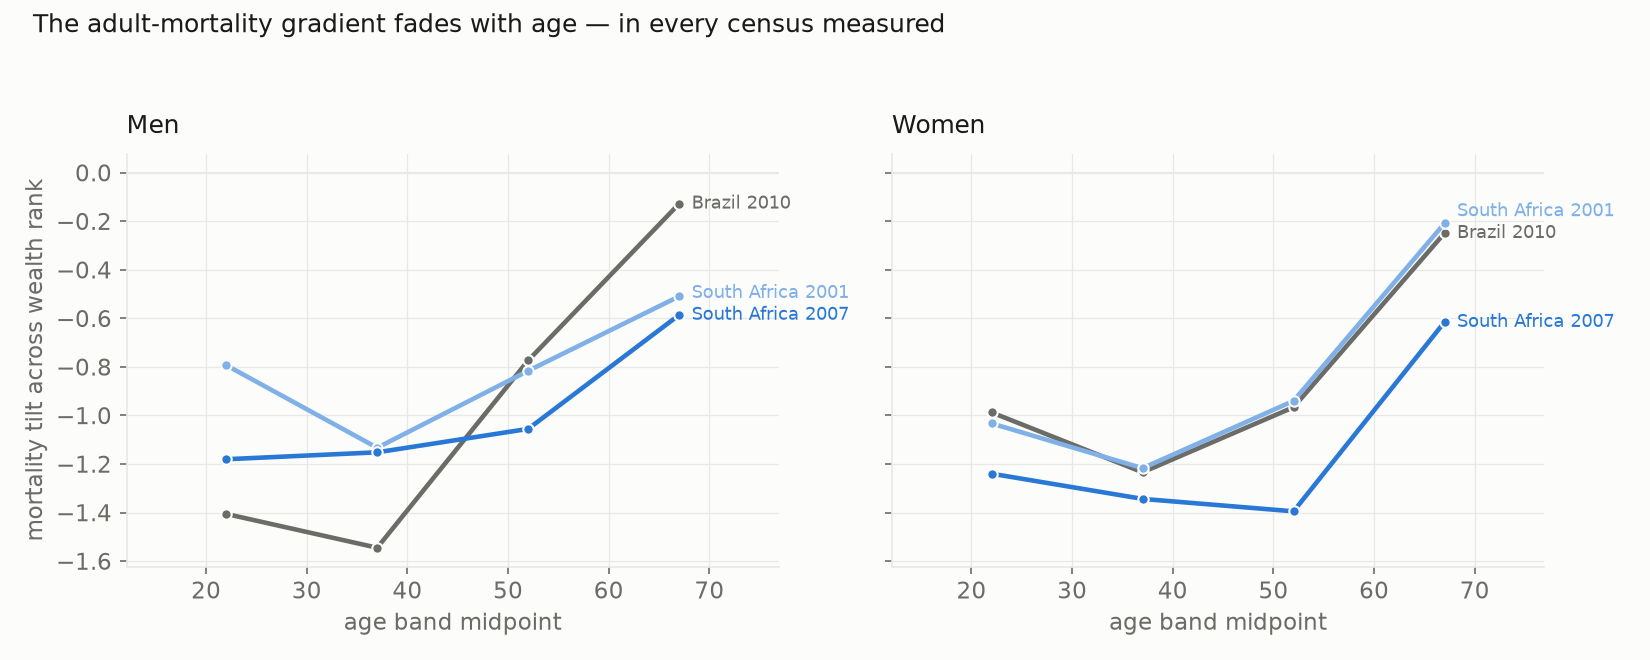
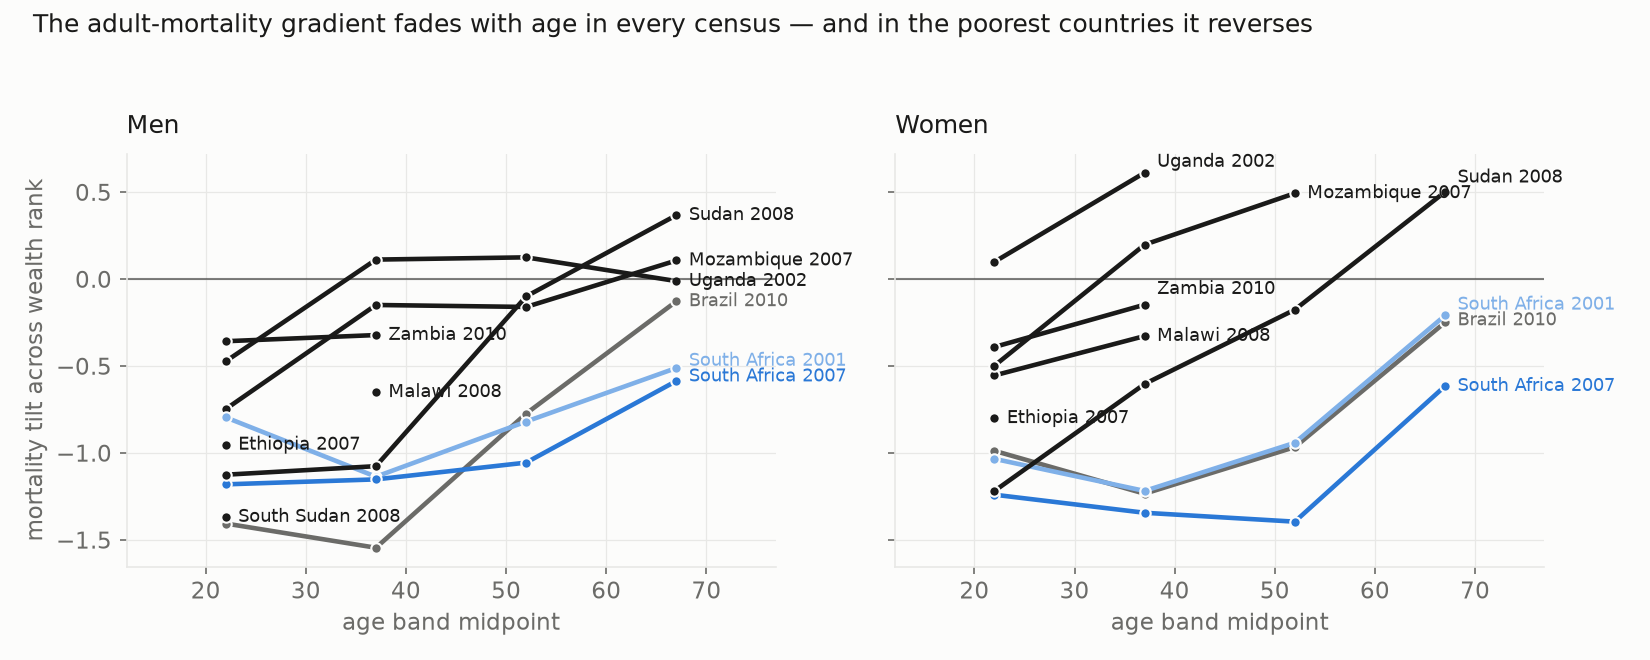
Add adult mortality for Ethiopia and eleven comparator countries
The library now covers sixteen censuses in fourteen countries, up from four
in two: Ethiopia 2007 joins the OG-family set, and Zambia, Malawi,
Mozambique, Uganda, Rwanda, Senegal, Sierra Leone, Lesotho, Benin, Sudan and
South Sudan give country models something to borrow from. Cambodia 2008 was
prepared and checked too but publishes nothing: its death records are mostly
children, leaving every adult age band short of the minimum this library
requires. That leaves no Asian country in the set, which matters for
borrowing and is worth returning to.

Every published sample reproduces its census population, links its death
records to households, and passes the completeness check. Brazil's rows still
come from IBGE's own microdata, because the IPUMS file for the same census
holds only half the deaths the census reports and loses them mainly in
wealthy households.

Two findings are written into the analysis. First, how steep the gradient is
depends on how rich the country is, closely enough to predict: doubling
income per head steepens it by about a sixth of a point. Borrowing should
follow income level rather than region, and a model running decades ahead
should let the gradient steepen as the country grows richer. Second, in the
poorest countries the gradient flattens and then turns over at older ages -
measured mortality is higher in better-off households past 45. That may be
real, since where nearly everyone is poor the top group is barely better
[…]

diff --git a/scripts/build_analysis.py b/scripts/build_analysis.py
@@ -180,22 +180,63 @@ a decaying quantity. South Africa's own fertility gradient flattened between its
     amr_path = DATA / "adult_mortality_gradients.csv"
     if amr_path.exists():
         amr = pd.read_csv(amr_path)
-        doc += """
+        n_cens = amr.groupby(["country", "year"]).ngroups
+        doc += f"""
 ## Adult mortality gradients (census household-deaths modules)
 
 Adult mortality by wealth comes from census microdata, not DHS surveys (see the
 README for why). Households are ranked by an asset index; tilts are on the same
-log-rate-per-unit-rank scale as the tables above. The age pattern — steep at
+log-rate-per-unit-rank scale as the tables above. The age pattern — steepest at
 prime working ages, fading in old age — is the by-age shape ogcore's
-`mort_gradient` accepts directly, and it replicates across every census
-measured:
+`mort_gradient` accepts directly, and it holds in every one of the
+{n_cens} censuses measured:
 
 ![Adult-mortality tilt by age band and country](figures/fig5_amr_age_profile.png)
 
-`linked` is the share of the census's death records that carry a linkable
-household ID; where it is well below 1 (South Africa 2011), rate *levels* are
-meaningless but the tilt is unbiased — the linked deaths' composition matches
-the unlinked on province, urban/rural, sex, and age (checked per sample).
+### Read the level off national income, not the region
+
+The *steepness* of the gradient tracks how rich the country is. Across these
+censuses the headline tilt fits
+
+    tilt ≈ 1.25 − 0.24 × ln(GNI per capita)      (r = −0.85)
+
+so doubling income steepens the gradient by about −0.17. In the poorest
+countries the gradient is flat, and at older ages it turns positive: measured
+mortality is *higher* in wealthier households in Ethiopia 2007, Uganda 2002,
+South Sudan 2008 and Mozambique 2007. Two things plausibly drive that, and this
+data cannot separate them. Where almost everyone is poor, the top asset group
+is barely better protected and deaths are infectious and maternal rather than
+the socially graded chronic diseases of middle income. Against that, a frail
+elderly relative often moves into a better-off household before dying, which
+records the death against that household's wealth — a bias no within-census
+check can detect.
+
+HIV does not explain the pattern: excluding South Africa, the correlation
+between the tilt and HIV prevalence is +0.00, Lesotho has the set's highest
+prevalence with a solidly negative tilt, and the reversal is strongest at
+60–74, where HIV mortality is rare.
+
+**For calibration:** borrow by income level rather than by region, and do not
+hold a low-income country's flat tilt fixed across a long transition — as
+income rises the gradient should be expected to steepen toward the middle- and
+high-income values in this table.
+
+### What the columns mean, and what was left out
+
+`linked` is the share of the census's death records that reached estimation.
+Where it is well below 1 (South Africa 2011), rate *levels* are meaningless but
+the tilt is unbiased — the linked deaths' composition matches the unlinked on
+province, urban/rural, sex, and age.
+
+Every sample here passed a completeness check: the supplementary per-death file
+is compared, *within each wealth group*, against the same households' own
+reported death counts (`MORTNUM`). Even record loss cancels out of a tilt;
+wealth-skewed loss does not. Three samples failed and are deliberately absent —
+the IPUMS mortality supplement for Brazil 2010 (holds 48% of the deaths the
+census itself reports, with the loss concentrated in wealthy households; the
+Brazil rows below come from IBGE's own microdata instead), Nepal 2001, and El
+Salvador 2007. Their evidence is recorded in
+`scripts/build_adult_mortality.py`.
 
 | Country | Year | Sex | Ages | Measure | Tilt | Poorest/richest | Death records | Linked |
 |---|---|---|---|---|---|---|---|---|

diff --git a/scripts/make_figures.py b/scripts/make_figures.py
@@ -200,13 +200,15 @@ def amr_age_profile(fname):
         for series, c, x, y in ends:
             ax.annotate(series, (x, y), xytext=(6, 0), textcoords="offset points",
                         color=c, fontsize=8.5, va="center")
-        ax.axhline(0, color=GRID, lw=1)
         ax.grid(True, color=GRID, linewidth=0.6)
+        # zero is the substantive line: above it the gradient has reversed
+        ax.axhline(0, color="#1a1a19", lw=1, alpha=0.55)
         ax.set_xlabel("age band midpoint")
         ax.set_title(ttl, fontsize=12, loc="left", pad=10)
         ax.margins(x=0.22)
     axes[0].set_ylabel("mortality tilt across wealth rank")
-    fig.suptitle("The adult-mortality gradient fades with age — in every census measured",
+    fig.suptitle("The adult-mortality gradient fades with age in every census — "
+                 "and in the poorest countries it reverses",
                  fontsize=12, x=0.02, ha="left")
     fig.tight_layout(rect=(0, 0, 1, 0.94))
     fig.savefig(ROOT / "figures" / fname)

diff --git a/ANALYSIS.md b/ANALYSIS.md
@@ -79,17 +79,57 @@ a decaying quantity. South Africa's own fertility gradient flattened between its
 
 Adult mortality by wealth comes from census microdata, not DHS surveys (see the
 README for why). Households are ranked by an asset index; tilts are on the same
-log-rate-per-unit-rank scale as the tables above. The age pattern — steep at
+log-rate-per-unit-rank scale as the tables above. The age pattern — steepest at
 prime working ages, fading in old age — is the by-age shape ogcore's
-`mort_gradient` accepts directly, and it replicates across every census
-measured:
+`mort_gradient` accepts directly, and it holds in every one of the
+16 censuses measured:
 
 ![Adult-mortality tilt by age band and country](figures/fig5_amr_age_profile.png)
 
-`linked` is the share of the census's death records that carry a linkable
-household ID; where it is well below 1 (South Africa 2011), rate *levels* are
-meaningless but the tilt is unbiased — the linked deaths' composition matches
-the unlinked on province, urban/rural, sex, and age (checked per sample).
+### Read the level off national income, not the region
+
+The *steepness* of the gradient tracks how rich the country is. Across these
+censuses the headline tilt fits
+
+    tilt ≈ 1.25 − 0.24 × ln(GNI per capita)      (r = −0.85)
+
+so doubling income steepens the gradient by about −0.17. In the poorest
+countries the gradient is flat, and at older ages it turns positive: measured
+mortality is *higher* in wealthier households in Ethiopia 2007, Uganda 2002,
+South Sudan 2008 and Mozambique 2007. Two things plausibly drive that, and this
+data cannot separate them. Where almost everyone is poor, the top asset group
+is barely better protected and deaths are infectious and maternal rather than
+the socially graded chronic diseases of middle income. Against that, a frail
+elderly relative often moves into a better-off household before dying, which
+records the death against that household's wealth — a bias no within-census
+check can detect.
+
+HIV does not explain the pattern: excluding South Africa, the correlation
+between the tilt and HIV prevalence is +0.00, Lesotho has the set's highest
+prevalence with a solidly negative tilt, and the reversal is strongest at
+60–74, where HIV mortality is rare.
+
+**For calibration:** borrow by income level rather than by region, and do not
+hold a low-income country's flat tilt fixed across a long transition — as
+income rises the gradient should be expected to steepen toward the middle- and
+high-income values in this table.
+
+### What the columns mean, and what was left out
+
+`linked` is the share of the census's death records that reached estimation.
+Where it is well below 1 (South Africa 2011), rate *levels* are meaningless but
+the tilt is unbiased — the linked deaths' composition matches the unlinked on
+province, urban/rural, sex, and age.
+
+Every sample here passed a completeness check: the supplementary per-death file
+is compared, *within each wealth group*, against the same households' own
+reported death counts (`MORTNUM`). Even record loss cancels out of a tilt;
+wealth-skewed loss does not. Three samples failed and are deliberately absent —
+the IPUMS mortality supplement for Brazil 2010 (holds 48% of the deaths the
+census itself reports, with the loss concentrated in wealthy households; the
+Brazil rows below come from IBGE's own microdata instead), Nepal 2001, and El
+Salvador 2007. Their evidence is recorded in
+`scripts/build_adult_mortality.py`.
 
 | Country | Year | Sex | Ages | Measure | Tilt | Poorest/richest | Death records | Linked |
 |---|---|---|---|---|---|---|---|---|
@@ -103,21 +143,21 @@ the unlinked on province, urban/rural, sex, and age (checked per sample).
 | Brazil | 2010 | female | 45–59 | mx | −0.97 | 2.26 | 6,896 | 100% |
 | Brazil | 2010 | female | 60–74 | mx | −0.25 | 1.23 | 12,161 | 100% |
 | Brazil | 2010 | female | 15–59 | 45q15 | −0.98 | 2.28 | 12,089 | 100% |
-| South Africa | 2001 | all | 15–29 | mx | −0.91 | 1.97 | 5,939 | 100% |
+| South Africa | 2001 | all | 15–29 | mx | −0.92 | 1.98 | 5,939 | 100% |
 | South Africa | 2001 | all | 30–44 | mx | −1.17 | 2.55 | 8,504 | 100% |
 | South Africa | 2001 | all | 45–59 | mx | −0.86 | 1.95 | 5,750 | 100% |
 | South Africa | 2001 | all | 60–74 | mx | −0.32 | 1.28 | 5,489 | 100% |
-| South Africa | 2001 | all | 15–59 | 45q15 | −0.79 | 1.85 | 20,193 | 100% |
-| South Africa | 2001 | male | 15–29 | mx | −0.79 | 1.84 | 2,835 | 100% |
-| South Africa | 2001 | male | 30–44 | mx | −1.13 | 2.56 | 4,564 | 100% |
-| South Africa | 2001 | male | 45–59 | mx | −0.82 | 1.94 | 3,558 | 100% |
-| South Africa | 2001 | male | 60–74 | mx | −0.51 | 1.47 | 2,983 | 100% |
-| South Africa | 2001 | male | 15–59 | 45q15 | −0.70 | 1.77 | 10,957 | 100% |
+| South Africa | 2001 | all | 15–59 | 45q15 | −0.79 | 1.86 | 20,193 | 100% |
+| South Africa | 2001 | male | 15–29 | mx | −0.80 | 1.84 | 2,835 | 100% |
+| South Africa | 2001 | male | 30–44 | mx | −1.14 | 2.57 | 4,564 | 100% |
+| South Africa | 2001 | male | 45–59 | mx | −0.82 | 1.95 | 3,558 | 100% |
+| South Africa | 2001 | male | 60–74 | mx | −0.51 | 1.48 | 2,983 | 100% |
+| South Africa | 2001 | male | 15–59 | 45q15 | −0.70 | 1.78 | 10,957 | 100% |
 | South Africa | 2001 | female | 15–29 | mx | −1.03 | 2.12 | 3,104 | 100% |
 | South Africa | 2001 | female | 30–44 | mx | −1.22 | 2.57 | 3,940 | 100% |
 | South Africa | 2001 | female | 45–59 | mx | −0.94 | 2.02 | 2,192 | 100% |
 | South Africa | 2001 | female | 60–74 | mx | −0.21 | 1.19 | 2,506 | 100% |
-| South Africa | 2001 | female | 15–59 | 45q15 | −0.89 | 1.97 | 9,236 | 100% |
+| South Africa | 2001 | female | 15–59 | 45q15 | −0.89 | 1.98 | 9,236 | 100% |
 | South Africa | 2007 | all | 15–29 | mx | −1.21 | 2.35 | 2,421 | 100% |
 | South Africa | 2007 | all | 30–44 | mx | −1.25 | 2.41 | 4,353 | 100% |
 | South Africa | 2007 | all | 45–59 | mx | −1.21 | 2.25 | 2,693 | 100% |
@@ -133,9 +173,107 @@ the unlinked on province, urban/rural, sex, and age (checked per sample).
 | South Africa | 2007 | female | 45–59 | mx | −1.40 | 2.51 | 1,090 | 100% |
 | South Africa | 2007 | female | 60–74 | mx | −0.62 | 1.41 | 902 | 100% |
 | South Africa | 2007 | female | 15–59 | 45q15 | −0.92 | 1.87 | 4,586 | 100% |
-| South Africa | 2011 | all | 30–44 | mx | −1.45 | 3.47 | 988 | 10% |
-| South Africa | 2011 | all | 15–59 | 45q15 | −1.14 | 2.63 | 2,245 | 10% |
-| South Africa | 2011 | male | 15–59 | 45q15 | −0.99 | 2.38 | 1,193 | 10% |
-| South Africa | 2011 | female | 15–59 | 45q15 | −1.30 | 2.93 | 1,048 | 10% |
+| South Africa | 2011 | all | 30–44 | mx | −0.99 | 1.98 | 905 | 9% |
+| South Africa | 2011 | all | 15–59 | 45q15 | −0.80 | 1.75 | 2,098 | 9% |
+| South Africa | 2011 | male | 15–59 | 45q15 | −0.74 | 1.74 | 1,123 | 9% |
+| South Africa | 2011 | female | 15–59 | 45q15 | −0.87 | 1.76 | 972 | 9% |
+| Ethiopia | 2007 | all | 15–29 | mx | −0.87 | 1.79 | 1,957 | 100% |
+| Ethiopia | 2007 | all | 30–44 | mx | 0.08 | 0.93 | 1,472 | 100% |
+| Ethiopia | 2007 | all | 45–59 | mx | 0.58 | 0.66 | 900 | 100% |
+| Ethiopia | 2007 | all | 60–74 | mx | 0.44 | 0.75 | 957 | 100% |
+| Ethiopia | 2007 | all | 15–59 | 45q15 | 0.09 | 0.93 | 4,329 | 100% |
+| Ethiopia | 2007 | male | 15–29 | mx | −0.95 | 1.89 | 974 | 100% |
+| Ethiopia | 2007 | male | 15–59 | 45q15 | −0.13 | 1.07 | 2,247 | 100% |
+| Ethiopia | 2007 | female | 15–29 | mx | −0.80 | 1.70 | 983 | 100% |
+| Ethiopia | 2007 | female | 15–59 | 45q15 | 0.34 | 0.79 | 2,082 | 100% |
+| Zambia | 2010 | all | 15–29 | mx | −0.37 | 1.32 | 2,354 | 100% |
+| Zambia | 2010 | all | 30–44 | mx | −0.24 | 1.15 | 2,899 | 100% |
+| Zambia | 2010 | all | 45–59 | mx | −0.22 | 1.10 | 1,433 | 100% |
+| Zambia | 2010 | all | 60–74 | mx | 0.48 | 0.69 | 1,147 | 100% |
+| Zambia | 2010 | all | 15–59 | 45q15 | −0.18 | 1.11 | 6,686 | 100% |
+| Zambia | 2010 | male | 15–29 | mx | −0.36 | 1.30 | 1,147 | 100% |
+| Zambia | 2010 | male | 30–44 | mx | −0.32 | 1.19 | 1,652 | 100% |
+| Zambia | 2010 | male | 15–59 | 45q15 | −0.31 | 1.18 | 3,630 | 100% |
+| Zambia | 2010 | female | 15–29 | mx | −0.39 | 1.33 | 1,207 | 100% |
+| Zambia | 2010 | female | 30–44 | mx | −0.15 | 1.10 | 1,247 | 100% |
+| Zambia | 2010 | female | 15–59 | 45q15 | −0.06 | 1.05 | 3,056 | 100% |
+| Malawi | 2008 | all | 15–29 | mx | −0.71 | 1.65 | 1,941 | 99% |
+| Malawi | 2008 | all | 30–44 | mx | −0.50 | 1.30 | 2,243 | 99% |
+| Malawi | 2008 | all | 45–59 | mx | −0.10 | 0.95 | 1,059 | 99% |
+| Malawi | 2008 | all | 15–59 | 45q15 | −0.28 | 1.13 | 5,243 | 99% |
+| Malawi | 2008 | male | 30–44 | mx | −0.65 | 1.36 | 1,198 | 99% |
+| Malawi | 2008 | male | 15–59 | 45q15 | −0.45 | 1.25 | 2,724 | 99% |
+| Malawi | 2008 | female | 15–29 | mx | −0.55 | 1.46 | 1,054 | 99% |
+| Malawi | 2008 | female | 30–44 | mx | −0.33 | 1.23 | 1,045 | 99% |
+| Malawi | 2008 | female | 15–59 | 45q15 | −0.11 | 1.04 | 2,519 | 99% |
+| Mozambique | 2007 | all | 15–29 | mx | −0.62 | 1.66 | 4,110 | 100% |
+| Mozambique | 2007 | all | 30–44 | mx | 0.03 | 0.97 | 4,637 | 100% |
+| Mozambique | 2007 | all | 45–59 | mx | 0.19 | 0.84 | 2,863 | 100% |
+| Mozambique | 2007 | all | 60–74 | mx | 0.66 | 0.60 | 2,176 | 100% |
+| Mozambique | 2007 | all | 15–59 | 45q15 | −0.01 | 1.00 | 11,610 | 100% |
+| Mozambique | 2007 | male | 15–29 | mx | −0.75 | 1.84 | 1,794 | 100% |
+| Mozambique | 2007 | male | 30–44 | mx | −0.15 | 1.14 | 2,458 | 100% |
+| Mozambique | 2007 | male | 45–59 | mx | −0.16 | 1.07 | 1,657 | 100% |
+| Mozambique | 2007 | male | 60–74 | mx | 0.11 | 0.89 | 1,281 | 100% |
+| Mozambique | 2007 | male | 15–59 | 45q15 | −0.16 | 1.11 | 5,909 | 100% |
+| Mozambique | 2007 | female | 15–29 | mx | −0.50 | 1.51 | 2,297 | 100% |
+| Mozambique | 2007 | female | 30–44 | mx | 0.20 | 0.83 | 2,171 | 100% |
+| Mozambique | 2007 | female | 45–59 | mx | 0.49 | 0.68 | 1,193 | 100% |
+| Mozambique | 2007 | female | 15–59 | 45q15 | 0.12 | 0.91 | 5,661 | 100% |
+| Uganda | 2002 | all | 15–29 | mx | −0.18 | 1.15 | 3,905 | 100% |
+| Uganda | 2002 | all | 30–44 | mx | 0.34 | 0.72 | 4,511 | 100% |
+| Uganda | 2002 | all | 45–59 | mx | 0.29 | 0.74 | 2,054 | 100% |
+| Uganda | 2002 | all | 60–74 | mx | 0.44 | 0.72 | 1,905 | 100% |
+| Uganda | 2002 | all | 15–59 | 45q15 | 0.17 | 0.83 | 10,470 | 100% |
+| Uganda | 2002 | male | 15–29 | mx | −0.47 | 1.47 | 1,827 | 100% |
+| Uganda | 2002 | male | 30–44 | mx | 0.11 | 0.86 | 2,461 | 100% |
+| Uganda | 2002 | male | 45–59 | mx | 0.13 | 0.84 | 1,227 | 100% |
+| Uganda | 2002 | male | 60–74 | mx | −0.01 | 0.97 | 1,105 | 100% |
+| Uganda | 2002 | male | 15–59 | 45q15 | 0.01 | 0.95 | 5,515 | 100% |
+| Uganda | 2002 | female | 15–29 | mx | 0.10 | 0.91 | 2,078 | 100% |
+| Uganda | 2002 | female | 30–44 | mx | 0.61 | 0.57 | 2,050 | 100% |
+| Uganda | 2002 | female | 15–59 | 45q15 | 0.37 | 0.71 | 4,955 | 100% |
+| Rwanda | 2002 | all | 15–59 | 45q15 | −0.38 | 1.31 | 1,846 | 100% |
+| Rwanda | 2002 | male | 15–59 | 45q15 | −0.58 | 1.50 | 950 | 100% |
+| Rwanda | 2002 | female | 15–59 | 45q15 | −0.19 | 1.15 | 886 | 100% |
+| Senegal | 2002 | all | 15–29 | mx | −0.73 | 1.84 | 1,086 | 100% |
+| Senegal | 2002 | all | 30–44 | mx | −0.55 | 1.70 | 1,086 | 100% |
+| Senegal | 2002 | all | 60–74 | mx | −0.15 | 1.07 | 1,311 | 100% |
+| Senegal | 2002 | all | 15–59 | 45q15 | −0.34 | 1.33 | 3,039 | 100% |
+| Senegal | 2002 | male | 15–59 | 45q15 | −0.38 | 1.40 | 1,311 | 100% |
+| Senegal | 2002 | female | 15–59 | 45q15 | −0.28 | 1.25 | 1,725 | 100% |
+| Sierra Leone | 2004 | all | 15–29 | mx | −0.66 | 1.75 | 1,182 | 100% |
+| Sierra Leone | 2004 | all | 30–44 | mx | −0.25 | 1.28 | 1,057 | 100% |
+| Sierra Leone | 2004 | all | 60–74 | mx | −0.30 | 1.25 | 918 | 100% |
+| Sierra Leone | 2004 | all | 15–59 | 45q15 | −0.26 | 1.28 | 3,056 | 100% |
+| Sierra Leone | 2004 | male | 15–59 | 45q15 | −0.35 | 1.39 | 1,487 | 100% |
+| Sierra Leone | 2004 | female | 15–59 | 45q15 | −0.16 | 1.16 | 1,569 | 100% |
+| Lesotho | 2006 | all | 30–44 | mx | −0.96 | 2.51 | 1,186 | 100% |
+| Lesotho | 2006 | all | 15–59 | 45q15 | −0.43 | 1.47 | 2,572 | 100% |
+| Lesotho | 2006 | male | 15–59 | 45q15 | −0.35 | 1.37 | 1,270 | 100% |
+| Lesotho | 2006 | female | 15–59 | 45q15 | −0.51 | 1.58 | 1,302 | 100% |
+| Benin | 2013 | all | 15–59 | 45q15 | −0.66 | 1.81 | 1,555 | 100% |
+| Benin | 2013 | male | 15–59 | 45q15 | −0.90 | 2.32 | 875 | 100% |
+| Benin | 2013 | female | 15–59 | 45q15 | −0.36 | 1.31 | 680 | 100% |
+| Sudan | 2008 | all | 15–29 | mx | −1.17 | 2.24 | 7,995 | 100% |
+| Sudan | 2008 | all | 30–44 | mx | −0.85 | 1.77 | 5,739 | 100% |
+| Sudan | 2008 | all | 45–59 | mx | −0.13 | 1.08 | 3,980 | 100% |
+| Sudan | 2008 | all | 60–74 | mx | 0.43 | 0.76 | 4,544 | 100% |
+| Sudan | 2008 | all | 15–59 | 45q15 | −0.47 | 1.37 | 17,714 | 100% |
+| Sudan | 2008 | male | 15–29 | mx | −1.12 | 2.13 | 4,262 | 100% |
+| Sudan | 2008 | male | 30–44 | mx | −1.08 | 2.10 | 3,259 | 100% |
+| Sudan | 2008 | male | 45–59 | mx | −0.10 | 1.03 | 2,205 | 100% |
+| Sudan | 2008 | male | 60–74 | mx | 0.37 | 0.79 | 2,709 | 100% |
+| Sudan | 2008 | male | 15–59 | 45q15 | −0.51 | 1.39 | 9,726 | 100% |
+| Sudan | 2008 | female | 15–29 | mx | −1.22 | 2.37 | 3,733 | 100% |
+| Sudan | 2008 | female | 30–44 | mx | −0.60 | 1.47 | 2,480 | 100% |
+| Sudan | 2008 | female | 45–59 | mx | −0.18 | 1.14 | 1,775 | 100% |
+| Sudan | 2008 | female | 60–74 | mx | 0.50 | 0.73 | 1,835 | 100% |
+| Sudan | 2008 | female | 15–59 | 45q15 | −0.44 | 1.36 | 7,988 | 100% |
+| South Sudan | 2008 | all | 15–29 | mx | −0.98 | 1.79 | 1,857 | 100% |
+| South Sudan | 2008 | all | 15–59 | 45q15 | 0.09 | 0.95 | 2,859 | 100% |
+| South Sudan | 2008 | male | 15–29 | mx | −1.37 | 2.24 | 1,092 | 100% |
+| South Sudan | 2008 | male | 15–59 | 45q15 | −0.30 | 1.19 | 1,724 | 100% |
+| South Sudan | 2008 | female | 15–59 | 45q15 | 0.62 | 0.69 | 1,135 | 100% |
 
 Ranking: household asset index (see README for the income-vs-assets validation and the build pipeline; asset components vary by census and are recorded in `scripts/build_adult_mortality.py`).
